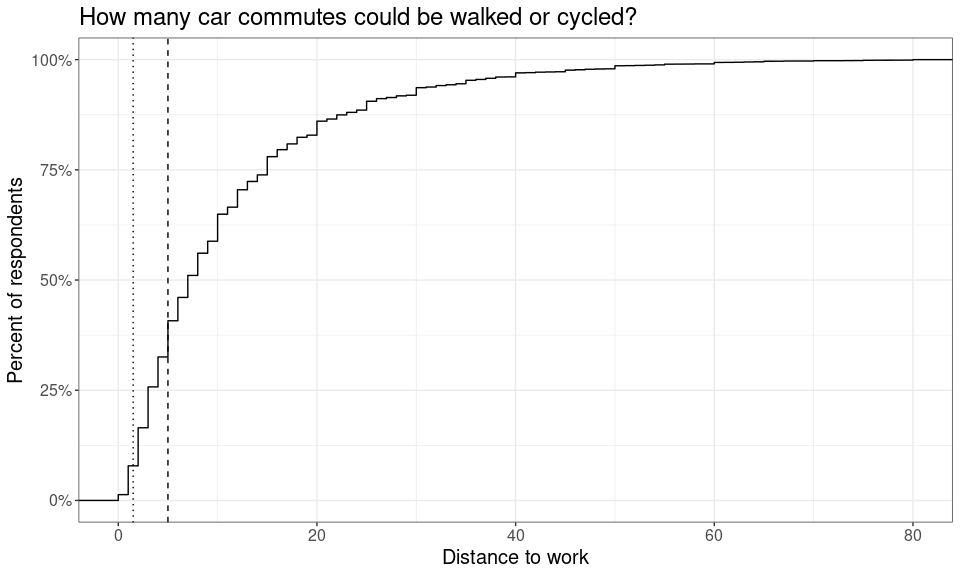
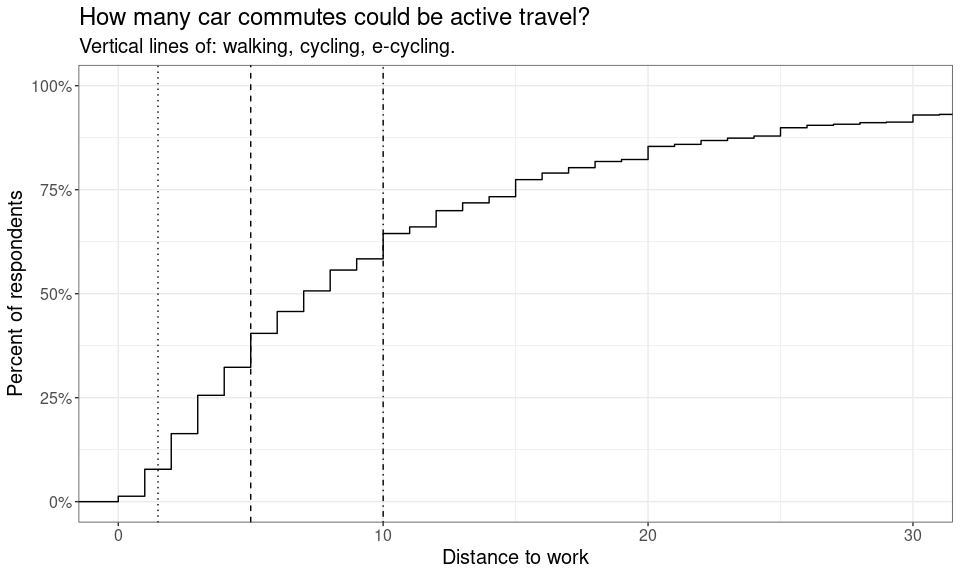
active travel options

diff --git a/transport_presentation_deets.md b/transport_presentation_deets.md
@@ -133,9 +133,11 @@ x %>%
   stat_ecdf() +
   geom_vline(xintercept = 1.5, linetype = "dotted") +
   geom_vline(xintercept = 5, linetype = "dashed") +
-  scale_x_continuous(limits = c(0, 80)) +
+  geom_vline(xintercept = 10, linetype = "dotdash") +
+  coord_cartesian(xlim = c(0, 30)) +
   scale_y_continuous(labels = scales::percent) +
-  labs(title = "How many car commutes could be walked or cycled?",
+  labs(title = "How many car commutes could be active travel?",
+       subtitle = "Vertical lines of: walking, cycling, e-cycling.",
        x = "Distance to work",
        y = "Percent of respondents") +
   theme_temp()
@@ -143,7 +145,12 @@ x %>%
 
 ![](transport_presentation_deets_files/figure-gfm/distance%20mode-1.png)<!-- -->
 
-640 of 9871 (6 %) of respondents drive to work is 1 mile :-(
+-   640 of 9871 (6 %) of respondents drive to work is 1 mile :-(
+-   769 of 9871 (8 %) of respondents drive to work is less than walking
+    distance (1.5 miles)
+-   3189 of 9871 (32 %) of respondents drive to work is less than
+    cycling distance (5 miles) 5762 of 9871 (58 %) of respondents drive
+    to work is less than electric cycling distance (10 miles)
 
 ``` r
 tran_opt = tibble(name = paste0("j_wktrv", c(1:10, 97)),
